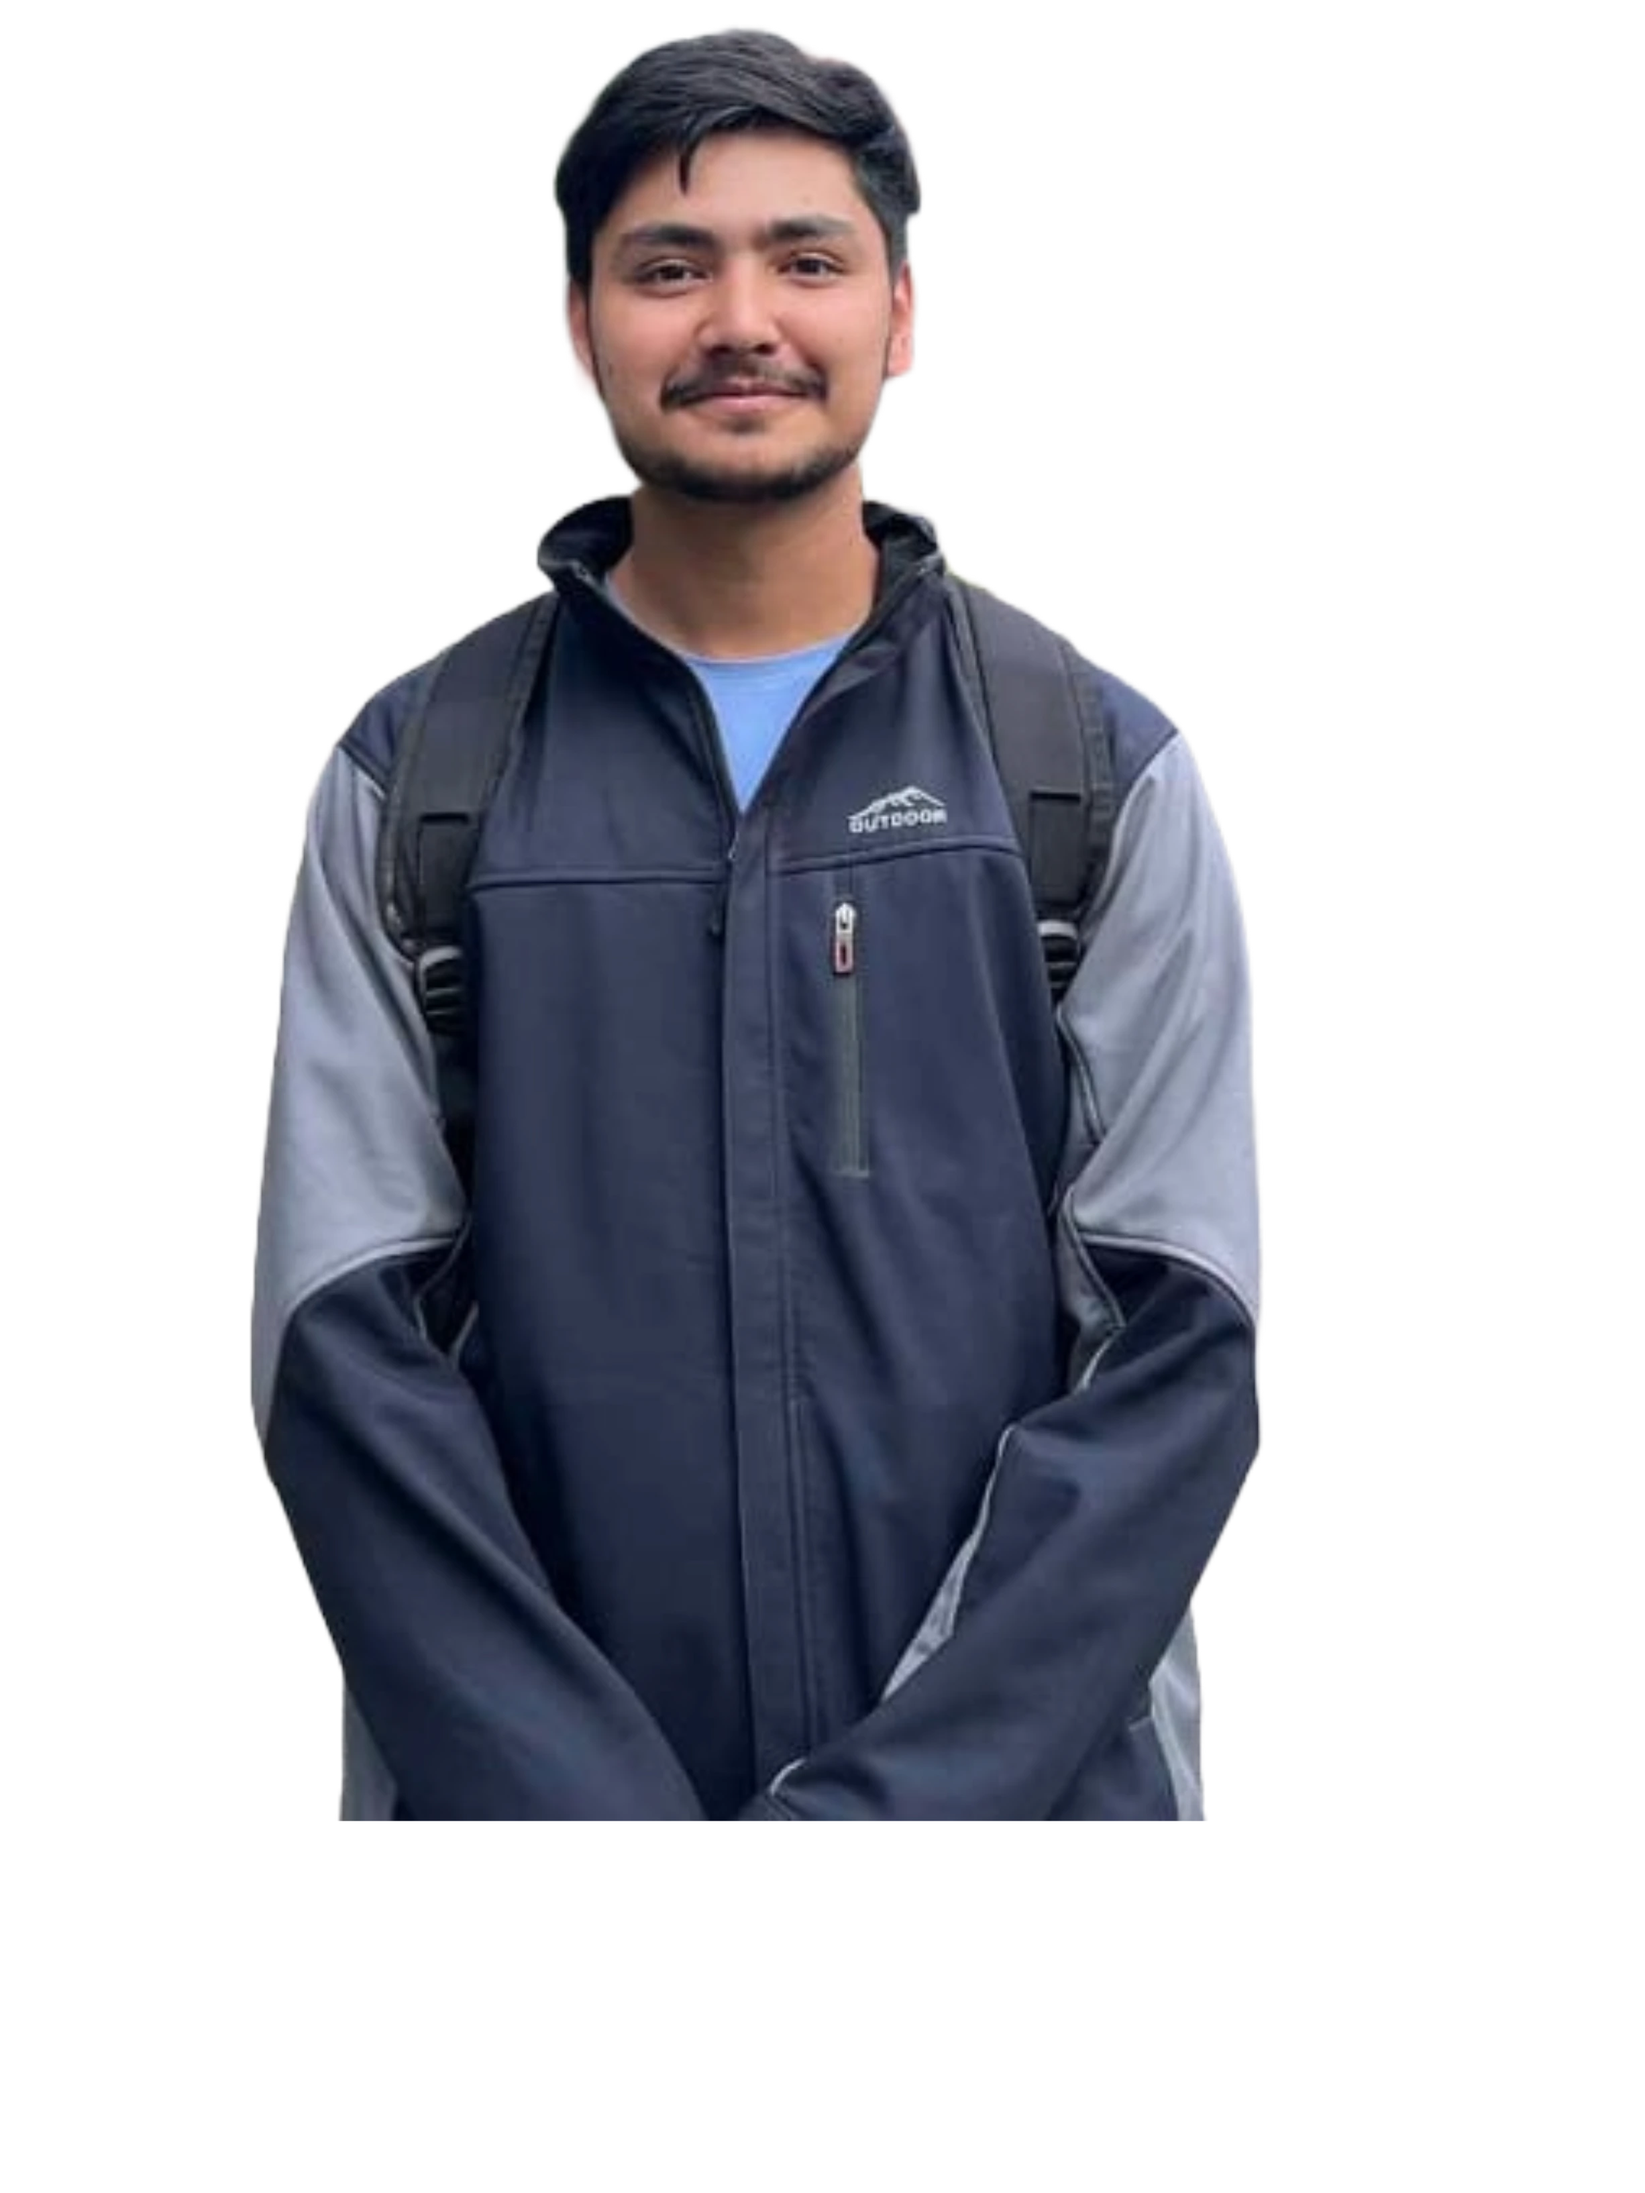
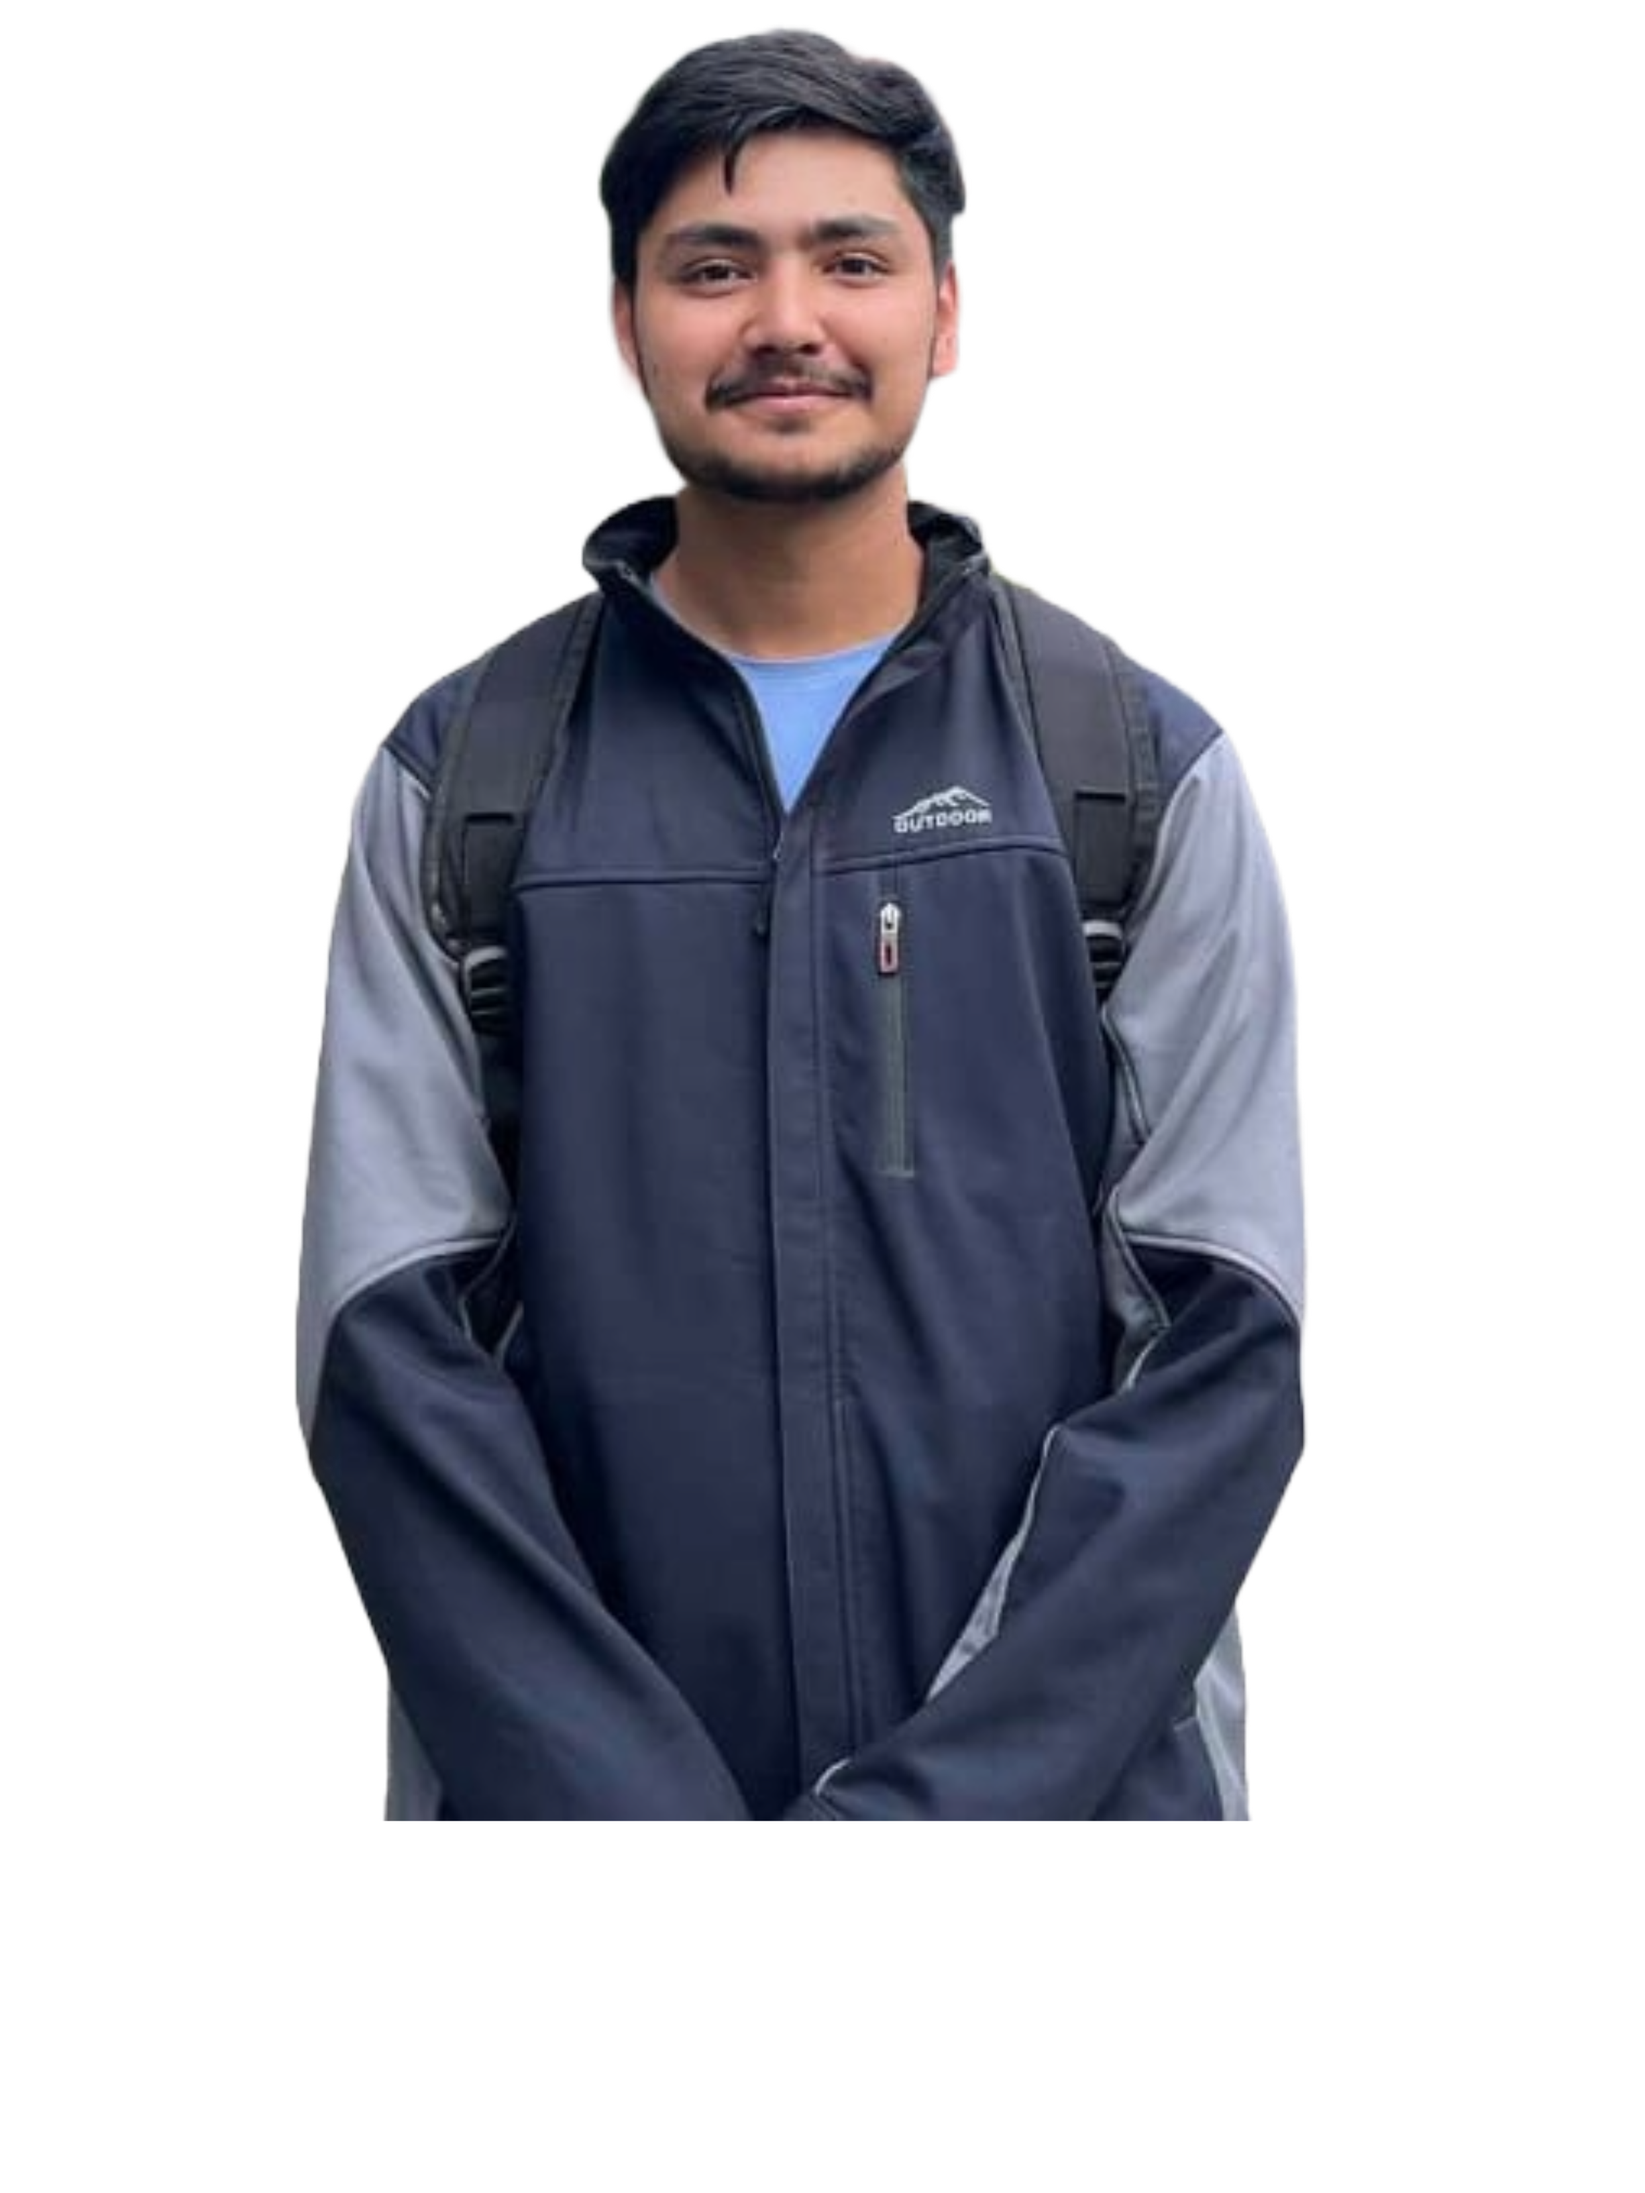
Update image format for Shreejan and enhance Royas' quote in teamData.ts

Changed region(s): [[0.155, 0.0, 0.8059, 0.8425], [0.6509, 0.8113, 0.6819, 0.8425]]

diff --git a/src/sections/LandingSection/components/TeamSection/teamData.ts b/src/sections/LandingSection/components/TeamSection/teamData.ts
@@ -28,7 +28,7 @@ import Ayusha from './Images/Ayusha.webp'
 import Angelina from './Images/Angelina.webp'
 import ankit from './Images/ankit.webp'
 import nirbhica from './Images/nirbhica.webp'
-import shreejan from './Images/shreejan.png'
+import shreejan from './Images/shreejan.webp'
 
 export const teamData: TeamMember[] = [
     {
@@ -67,7 +67,7 @@ export const teamData: TeamMember[] = [
       image: royas,
       role: 'Talent Manager',
       quote:
-        '',
+        'A tech enthusiast at heart, filled with creativity and driven by an endless curiosity.',
         socialLinks: {
           github: 'https://github.com/shkroyas',
           instagram: 'https://www.instagram.com/r.royas',
